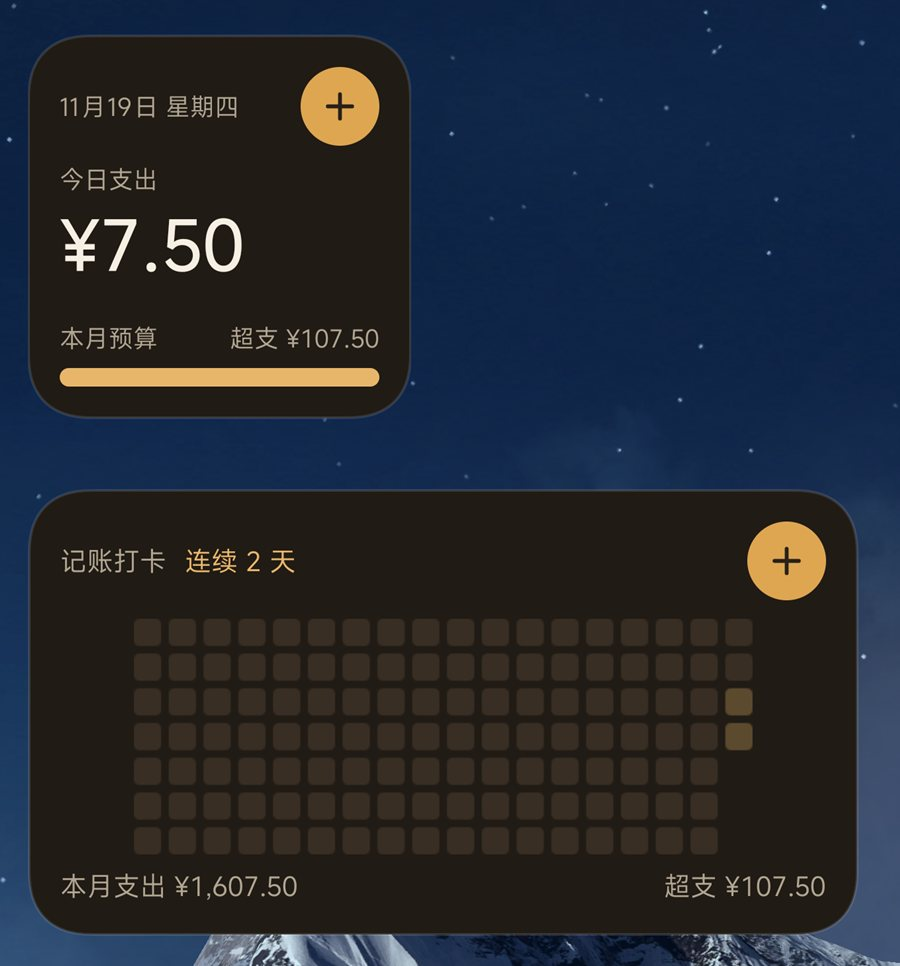
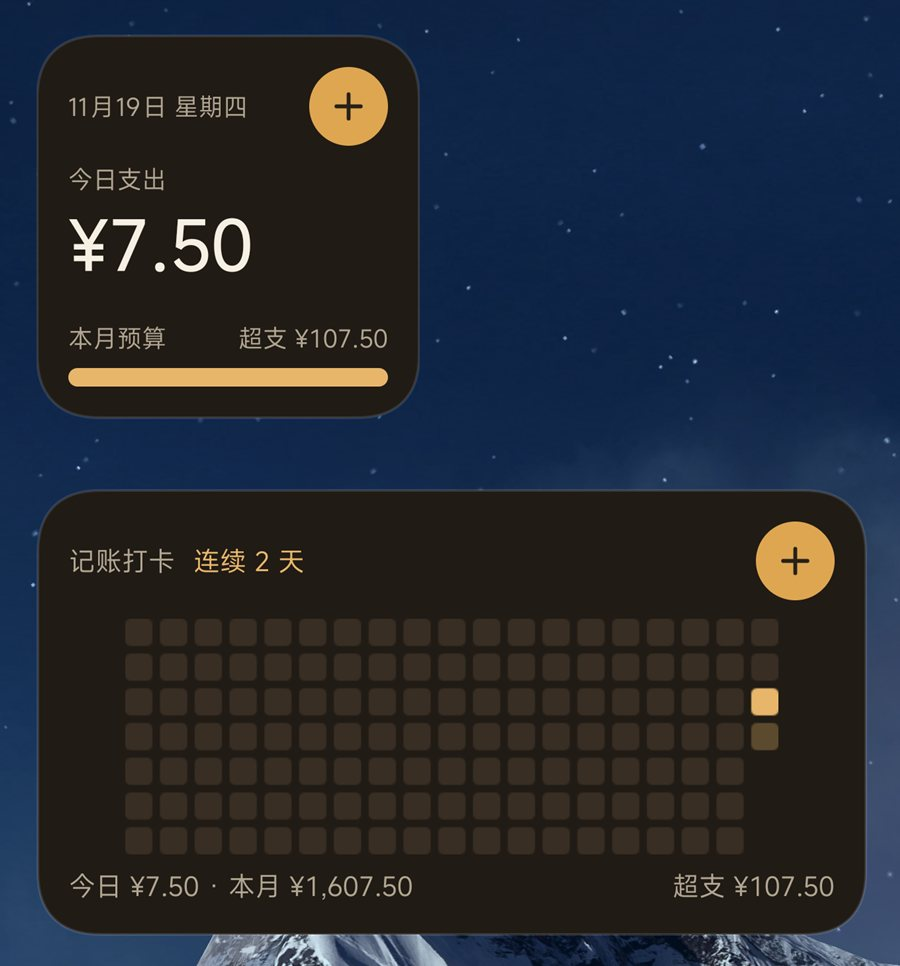
feat(widget): 复用统计页热力图算法，宽版补上今日支出
- 抽出 src/lib/heatmap.ts，统计页与桌面组件共用同一套 0-4 档计算
- 组件固定用「金额」视图，深浅与统计页切到金额时一致
- 4×2 底部显示「今日 ¥x · 本月 ¥y」
- 热力图改为 19 周，与 App 保持一致

diff --git a/src/components/Heatmap.tsx b/src/components/Heatmap.tsx
@@ -1,6 +1,7 @@
 import { useMemo, useState } from 'react'
 import dayjs from 'dayjs'
 import { money } from '../lib/format'
+import { buildHeatmapData, heatmapLevel, heatmapMax, type HeatmapDay } from '../lib/heatmap'
 import type { Transaction } from '../db/types'
 
 type Metric = 'count' | 'amount'
@@ -19,88 +20,29 @@ export default function Heatmap({
   const [metric, setMetric] = useState<Metric>('count')
   const [picked, setPicked] = useState<string | null>(null)
 
-  const { days, monthLabels, streak, longest, monthDays } = useMemo(() => {
-    const today = dayjs()
-    const dow = (today.day() + 6) % 7 // 周一为 0
-    const end = today.add(6 - dow, 'day') // 本周周日
-    const start = end.subtract(weeks * 7 - 1, 'day')
+  // 数据计算和桌面组件共用 src/lib/heatmap.ts，保证两边深浅规则一致
+  const { days, start, streak, longest, monthDays } = useMemo(
+    () => buildHeatmapData(transactions, weeks),
+    [transactions, weeks],
+  )
 
-    const byDay = new Map<string, { count: number; amount: number }>()
-    transactions.forEach((t) => {
-      const cur = byDay.get(t.date) ?? { count: 0, amount: 0 }
-      cur.count += 1
-      if (t.type === 'expense') cur.amount += t.amount
-      byDay.set(t.date, cur)
-    })
-
-    const days: { date: string; count: number; amount: number; future: boolean }[] = []
-    for (let i = 0; i < weeks * 7; i++) {
-      const d = start.add(i, 'day')
-      const key = d.format('YYYY-MM-DD')
-      const v = byDay.get(key)
-      days.push({
-        date: key,
-        count: v?.count ?? 0,
-        amount: v?.amount ?? 0,
-        future: d.isAfter(today, 'day'),
-      })
-    }
-
+  const monthLabels = useMemo(() => {
     // 月份标签：只标「这一列里包含某月 1 号」的位置
-    const monthLabels: { index: number; label: string }[] = []
+    const labels: { index: number; label: string }[] = []
     for (let w = 0; w < weeks; w++) {
       for (let d = 0; d < 7; d++) {
         const day = start.add(w * 7 + d, 'day')
         if (day.date() === 1) {
-          monthLabels.push({ index: w, label: day.format('M月') })
+          labels.push({ index: w, label: day.format('M月') })
           break
         }
       }
     }
+    return labels
+  }, [start, weeks])
 
-    // 连续记账：从今天（或昨天）往前数
-    const recorded = new Set<string>()
-    transactions.forEach((t) => recorded.add(t.date))
-    let streak = 0
-    let cursor = dayjs()
-    if (!recorded.has(cursor.format('YYYY-MM-DD'))) cursor = cursor.subtract(1, 'day')
-    while (recorded.has(cursor.format('YYYY-MM-DD'))) {
-      streak += 1
-      cursor = cursor.subtract(1, 'day')
-    }
-
-    // 历史最长连续
-    const sorted = [...recorded].sort()
-    let longest = 0
-    let run = 0
-    let prev: string | null = null
-    sorted.forEach((d) => {
-      if (prev && dayjs(d).diff(dayjs(prev), 'day') === 1) run += 1
-      else run = 1
-      longest = Math.max(longest, run)
-      prev = d
-    })
-
-    const monthKey = dayjs().format('YYYY-MM')
-    const monthDays = [...recorded].filter((d) => d.startsWith(monthKey)).length
-
-    return { days, monthLabels, streak, longest, monthDays }
-  }, [transactions, weeks])
-
-  const max = Math.max(
-    1,
-    ...days.map((d) => (metric === 'count' ? d.count : d.amount)),
-  )
-
-  const level = (d: { count: number; amount: number }) => {
-    const v = metric === 'count' ? d.count : d.amount
-    if (v <= 0) return 0
-    const r = v / max
-    if (r > 0.75) return 4
-    if (r > 0.5) return 3
-    if (r > 0.25) return 2
-    return 1
-  }
+  const max = heatmapMax(days, metric)
+  const level = (d: HeatmapDay) => heatmapLevel(d, max, metric)
 
   const pickedDay = picked ? days.find((d) => d.date === picked) : null
 

diff --git a/src/lib/widget.ts b/src/lib/widget.ts
@@ -10,6 +10,7 @@
 import { Capacitor, registerPlugin } from '@capacitor/core'
 import dayjs from 'dayjs'
 import type { Budget, Transaction } from '../db/types'
+import { buildHeatmapData, heatmapLevel, heatmapMax } from './heatmap'
 
 /** 组件需要的最小数据集，金额单位统一是「分」 */
 export interface WidgetSnapshot {
@@ -22,7 +23,7 @@ export interface WidgetSnapshot {
   monthExpense: number
   /** 本月总预算，0 表示没设置 */
   monthBudget: number
-  /** 打卡热力图：7 行（周一→周日），每行 18 周，-1 表示未来 */
+  /** 打卡热力图：7 行（周一→周日），每行 19 周，0-4 是深浅档位，-1 表示未来 */
   heatRows: string
   /** 连续记账天数 */
   streak: number
@@ -36,42 +37,24 @@ interface WidgetPlugin {
 
 const Widget = registerPlugin<WidgetPlugin>('Widget')
 
-/**
- * 热力图横跨的周数。
- * 去掉快捷按钮后，热力图区域大约 2.5:1，18 周（约四个月）正好铺满，
- * 格子也能保持正方形；周数太多反而会把格子缩小。
- */
-const HEAT_WEEKS = 18
+/** 和 App 里的 Heatmap 组件保持一致 */
+const HEAT_WEEKS = 19
 
-function buildHeatmap(transactions: Transaction[], now: dayjs.Dayjs) {
-  // 每天记了几笔（只看支出，和 App 里的打卡热力图口径一致）
-  const countByDay = new Map<string, number>()
-  for (const t of transactions) {
-    if (t.type !== 'expense') continue
-    countByDay.set(t.date, (countByDay.get(t.date) ?? 0) + 1)
-  }
+function buildHeatmap(transactions: Transaction[]) {
+  // 直接复用 App 里的计算逻辑，保证组件和统计页的深浅规则完全一致
+  const data = buildHeatmapData(transactions, HEAT_WEEKS)
 
-  // 周一为一周的第一天：把今天所在周对齐到周一，再往前推 24 周
-  const mondayOffset = (now.day() + 6) % 7
-  const start = now.subtract(mondayOffset, 'day').subtract(HEAT_WEEKS - 1, 'week')
-
+  // 组件固定用「金额」视图：同一天花得越多颜色越深
+  const max = heatmapMax(data.days, 'amount')
   const rows: number[][] = Array.from({ length: 7 }, () => [])
   for (let w = 0; w < HEAT_WEEKS; w++) {
     for (let d = 0; d < 7; d++) {
-      const date = start.add(w, 'week').add(d, 'day')
-      rows[d].push(date.isAfter(now, 'day') ? -1 : (countByDay.get(date.format('YYYY-MM-DD')) ?? 0))
+      const day = data.days[w * 7 + d]
+      rows[d].push(day.future ? -1 : heatmapLevel(day, max, 'amount'))
     }
   }
 
-  // 连续记账天数：从今天往前数，今天没记就算 0
-  let streak = 0
-  for (let i = 0; i < 3650; i++) {
-    const day = now.subtract(i, 'day').format('YYYY-MM-DD')
-    if ((countByDay.get(day) ?? 0) > 0) streak++
-    else break
-  }
-
-  return { heatRows: rows.map((r) => r.join(',')).join(';'), streak }
+  return { heatRows: rows.map((r) => r.join(',')).join(';'), streak: data.streak }
 }
 
 export function buildSnapshot(
@@ -103,7 +86,7 @@ export function buildSnapshot(
   const systemDark = window.matchMedia('(prefers-color-scheme: dark)').matches
   const resolved = theme === 'auto' ? (systemDark ? 'dark' : 'light') : theme
 
-  const heat = buildHeatmap(transactions, now)
+  const heat = buildHeatmap(transactions)
 
   return {
     today,

diff --git a/src/lib/heatmap.ts b/src/lib/heatmap.ts
@@ -1,0 +1,97 @@
+import dayjs from 'dayjs'
+import type { Transaction } from '../db/types'
+
+export type HeatmapMetric = 'count' | 'amount'
+
+export interface HeatmapDay {
+  date: string
+  count: number
+  amount: number
+  future: boolean
+}
+
+export interface HeatmapData {
+  days: HeatmapDay[]
+  weeks: number
+  /** 第一格（周一）的日期 */
+  start: dayjs.Dayjs
+  streak: number
+  longest: number
+  monthDays: number
+}
+
+/**
+ * 记账打卡热力图的数据计算，App 里的 Heatmap 组件和桌面组件共用这一份，
+ * 保证两边的深浅规则完全一致。
+ */
+export function buildHeatmapData(transactions: Transaction[], weeks = 19): HeatmapData {
+  const today = dayjs()
+  const dow = (today.day() + 6) % 7 // 周一为 0
+  const end = today.add(6 - dow, 'day') // 本周周日
+  const start = end.subtract(weeks * 7 - 1, 'day')
+
+  const byDay = new Map<string, { count: number; amount: number }>()
+  transactions.forEach((t) => {
+    const cur = byDay.get(t.date) ?? { count: 0, amount: 0 }
+    cur.count += 1
+    if (t.type === 'expense') cur.amount += t.amount
+    byDay.set(t.date, cur)
+  })
+
+  const days: HeatmapDay[] = []
+  for (let i = 0; i < weeks * 7; i++) {
+    const d = start.add(i, 'day')
+    const key = d.format('YYYY-MM-DD')
+    const v = byDay.get(key)
+    days.push({
+      date: key,
+      count: v?.count ?? 0,
+      amount: v?.amount ?? 0,
+      future: d.isAfter(today, 'day'),
+    })
+  }
+
+  // 连续记账：从今天（或昨天）往前数
+  const recorded = new Set<string>()
+  transactions.forEach((t) => recorded.add(t.date))
+  let streak = 0
+  let cursor = dayjs()
+  if (!recorded.has(cursor.format('YYYY-MM-DD'))) cursor = cursor.subtract(1, 'day')
+  while (recorded.has(cursor.format('YYYY-MM-DD'))) {
+    streak += 1
+    cursor = cursor.subtract(1, 'day')
+  }
+
+  // 历史最长连续
+  const sorted = [...recorded].sort()
+  let longest = 0
+  let run = 0
+  let prev: string | null = null
+  sorted.forEach((d) => {
+    if (prev && dayjs(d).diff(dayjs(prev), 'day') === 1) run += 1
+    else run = 1
+    longest = Math.max(longest, run)
+    prev = d
+  })
+
+  const monthKey = dayjs().format('YYYY-MM')
+  const monthDays = [...recorded].filter((d) => d.startsWith(monthKey)).length
+
+  return { days, weeks, start, streak, longest, monthDays }
+}
+
+/** 当前窗口里的最大值，至少为 1，避免除零 */
+export function heatmapMax(days: HeatmapDay[], metric: HeatmapMetric): number {
+  return Math.max(1, ...days.map((d) => (metric === 'count' ? d.count : d.amount)))
+}
+
+/** 和 App 里完全一致的 0-4 档深浅 */
+export function heatmapLevel(day: HeatmapDay, max: number, metric: HeatmapMetric): number {
+  const v = metric === 'count' ? day.count : day.amount
+  if (v <= 0) return 0
+  const r = v / max
+  if (r > 0.75) return 4
+  if (r > 0.5) return 3
+  if (r > 0.25) return 2
+  return 1
+}

diff --git a/android/app/src/main/java/com/nimingzhe/moneyaccount/HeatmapWidgetProvider.java b/android/app/src/main/java/com/nimingzhe/moneyaccount/HeatmapWidgetProvider.java
@@ -14,12 +14,16 @@ import android.graphics.Paint;
 import android.net.Uri;
 import android.widget.RemoteViews;
 
+import java.text.SimpleDateFormat;
+import java.util.Date;
+import java.util.Locale;
+
 /**
- * Wide home screen widget: a GitHub-style bookkeeping heatmap plus quick actions.
+ * Wide home screen widget: a GitHub-style bookkeeping heatmap.
  *
- * The web layer sends a compact "7 rows x N weeks" matrix of daily expense counts
- * (see src/lib/widget.ts). Drawing it as a bitmap here avoids shipping hundreds of
- * Views through RemoteViews, which is neither allowed nor cheap.
+ * The web layer sends a compact "7 rows x 19 weeks" matrix of 0-4 intensity levels,
+ * computed by the same helper the in-app Heatmap uses (src/lib/heatmap.ts). Drawing
+ * it as a bitmap here avoids shipping hundreds of Views through RemoteViews.
  */
 public class HeatmapWidgetProvider extends AppWidgetProvider {
 
@@ -55,11 +59,17 @@ public class HeatmapWidgetProvider extends AppWidgetProvider {
                 : context.getString(R.string.heat_streak_none)
         );
 
+        String today = new SimpleDateFormat("yyyy-MM-dd", Locale.CHINA).format(new Date());
+        long todayExpense = today.equals(sp.getString("today", "")) ? sp.getLong("todayExpense", 0) : 0;
         long monthExpense = sp.getLong("monthExpense", 0);
         long monthBudget = sp.getLong("monthBudget", 0);
         views.setTextViewText(
             R.id.heat_spent,
-            context.getString(R.string.heat_spent, MoneyWidgetProvider.money(monthExpense))
+            context.getString(
+                R.string.heat_spent,
+                MoneyWidgetProvider.money(todayExpense),
+                MoneyWidgetProvider.money(monthExpense)
+            )
         );
         if (monthBudget > 0) {
             long left = monthBudget - monthExpense;

diff --git a/README.md b/README.md
@@ -112,7 +112,7 @@ Documents/随手记/archives/2026-11-18.json  按天留档，同一天覆盖
 | 打卡热力图 | 近 19 周每天一格，按笔数或金额着深浅；点开看当天几笔花了多少，另有连续记账天数 |
 | 外观 | 跟随系统 / 浅色 / 深色 |
 | 数据文件 | 自动把账本写成手机里的 JSON 文件，按天留档，可回滚到任意一天 |
-| 桌面小组件 | 2×2 卡片显示今日支出与本月预算；4×2 卡片显示近四个月打卡热力图和本月预算，点加号直接进记账页 |
+| 桌面小组件 | 2×2 卡片显示今日支出与本月预算；4×2 卡片显示近 19 周打卡热力图、今日/本月支出与预算，点加号直接进记账页 |
 | 备份 | 导出 JSON 全量备份、导出 CSV 明细、从备份恢复、清空数据 |
 
 ## 设计上的取舍
@@ -145,6 +145,7 @@ src/
               ai.ts 可选的 DeepSeek 解析（自己填 Key 才启用，失败自动退回本地规则）
               native.ts Capacitor 桥接：状态栏、返回键、文件导出、外链、组件深链
               update.ts 检查更新（只读远端 package.json 的版本号）
+              heatmap.ts 打卡热力图计算（统计页与桌面组件共用）
               widget.ts 桌面小组件快照：算好今日收支与预算，交给原生插件
   components/ Icons 手写 SVG 图标 · TabBar 底部导航 · Sheet 底部抽屉 · TransactionRow 记账行 · Donut / TrendChart
               Heatmap 打卡热力图 · CategoryEditor 分类编辑面板（记账页与分类页共用）
